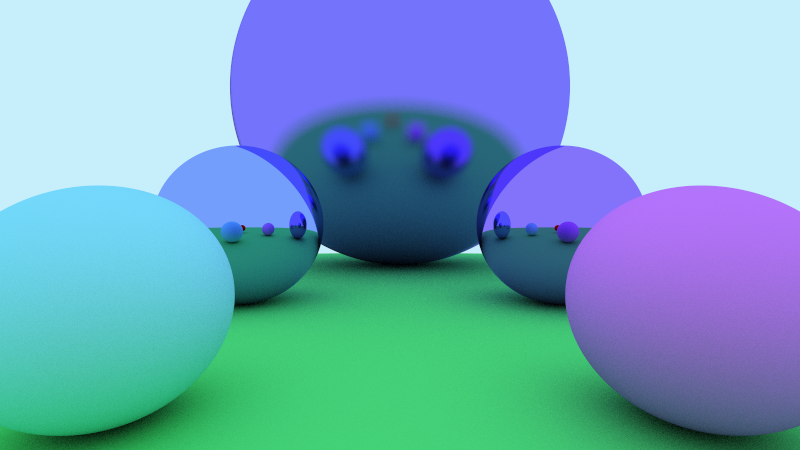
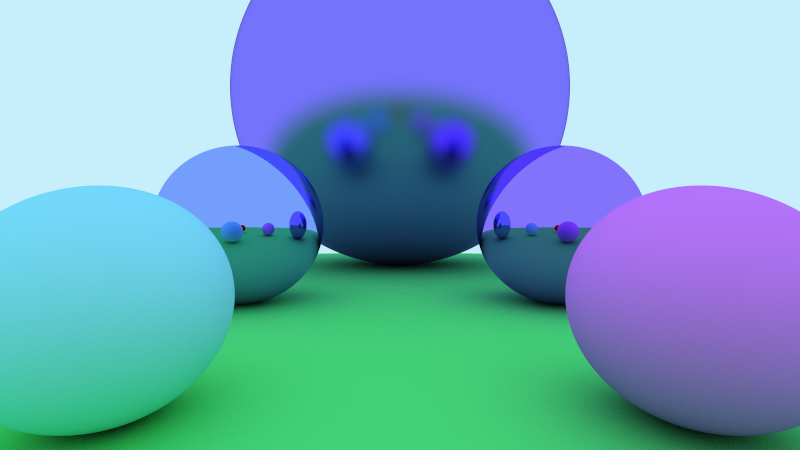
a06SmallChanges

Changed region(s): [[0.3125, 0.1867, 0.6875, 0.4044], [0.5938, 0.4044, 0.625, 0.4667], [0.375, 0.4044, 0.4062, 0.4667]]

diff --git a/src/cgg/A04.java b/src/cgg/A04.java
@@ -7,7 +7,7 @@ import cgg.sampler.StratifiedSampler;
 import cgg.scene.LochKamera;
 import cgg.scene.shapes.Background;
 import cgg.scene.shapes.Group;
-import cgg.scene.shapes.KugelSurface;
+import cgg.scene.shapes.Kugel;
 import cgg.scene.shapes.Plane;
 import cgg.scene.shapes.Shape;
 import cgtools.Color;
@@ -27,9 +27,9 @@ public class A04 {
 		
 //--------------------------------------------------------------------------------------------------------------------------
 		Shape ground = new Plane(5, Point.point(0.0, -0.5, 0.0), Direction.direction(0, 1, 0), new PerfectDiffuseMaterial(Color.gray));
-		Shape globe1 = new KugelSurface(Point.point(-1.0, -0.25, -2.5), 0.7, new PerfectDiffuseMaterial(new Color(1, 0.1, 0.1)));
-		Shape globe2 = new KugelSurface(Point.point(0.0, -0.25, -2.5), 0.5, new PerfectDiffuseMaterial(new Color(0, 1, 0.4)));
-		Shape globe3 = new KugelSurface(Point.point(1.0, -0.25, -2.5), 0.7, new PerfectDiffuseMaterial(new Color(0, 0.5, 1)));
+		Shape globe1 = new Kugel(Point.point(-1.0, -0.25, -2.5), 0.7, new PerfectDiffuseMaterial(new Color(1, 0.1, 0.1)));
+		Shape globe2 = new Kugel(Point.point(0.0, -0.25, -2.5), 0.5, new PerfectDiffuseMaterial(new Color(0, 1, 0.4)));
+		Shape globe3 = new Kugel(Point.point(1.0, -0.25, -2.5), 0.7, new PerfectDiffuseMaterial(new Color(0, 0.5, 1)));
 		Background bg = new Background(new BackgroundMaterial(Color.black));
 		
 		Group gr = new Group(new Shape[] {ground, globe1, globe2, globe3, bg});
@@ -41,12 +41,12 @@ public class A04 {
 		System.out.println("Wrote image: " + filename);
 //--------------------------------------------------------------------------------------------------------------------------	
 		Shape groundND = new Plane(4, Point.point(0.0, -0.5, -2.5), Direction.direction(0, 1, 0), new PerfectDiffuseMaterial(Color.white));
-		Shape legs = new KugelSurface(Point.point(0.0, -0.5, -2.5), 0.4, new PerfectDiffuseMaterial(Color.white));
-		Shape body = new KugelSurface(Point.point(0.0, 0, -2.5), 0.25, new PerfectDiffuseMaterial(Color.white));
-		Shape head = new KugelSurface(Point.point(0.0, 0.4, -2.5), 0.2, new PerfectDiffuseMaterial(Color.white));
-		Shape leftEye = new KugelSurface(Point.point(-0.04, 0.175, -1), 0.01, new PerfectDiffuseMaterial(Color.black));
-		Shape rightEye = new KugelSurface(Point.point(0.04, 0.175, -1), 0.01, new PerfectDiffuseMaterial(Color.black));
-		Shape nose = new KugelSurface(Point.point(0.0, 0.15, -1), 0.01, new PerfectDiffuseMaterial(Color.red));
+		Shape legs = new Kugel(Point.point(0.0, -0.5, -2.5), 0.4, new PerfectDiffuseMaterial(Color.white));
+		Shape body = new Kugel(Point.point(0.0, 0, -2.5), 0.25, new PerfectDiffuseMaterial(Color.white));
+		Shape head = new Kugel(Point.point(0.0, 0.4, -2.5), 0.2, new PerfectDiffuseMaterial(Color.white));
+		Shape leftEye = new Kugel(Point.point(-0.04, 0.175, -1), 0.01, new PerfectDiffuseMaterial(Color.black));
+		Shape rightEye = new Kugel(Point.point(0.04, 0.175, -1), 0.01, new PerfectDiffuseMaterial(Color.black));
+		Shape nose = new Kugel(Point.point(0.0, 0.15, -1), 0.01, new PerfectDiffuseMaterial(Color.red));
 		Background bg1 = new Background(new BackgroundMaterial(new Color(0, 0, 0.2)));
 		
 		Group snowMan = new Group(new Shape[] {legs, body, head, nose, leftEye, rightEye});
@@ -82,7 +82,7 @@ public class A04 {
 			
 			y = Random.random()-0.5;
 			
-			tmp[i] = new KugelSurface(Point.point(x, y, z), 0.01, new PerfectDiffuseMaterial(Color.white));
+			tmp[i] = new Kugel(Point.point(x, y, z), 0.01, new PerfectDiffuseMaterial(Color.white));
 		}
 		
 		return tmp;

diff --git a/src/cgg/A06.java b/src/cgg/A06.java
@@ -9,7 +9,7 @@ import cgg.sampler.StratifiedSampler;
 import cgg.scene.LochKamera;
 import cgg.scene.shapes.Background;
 import cgg.scene.shapes.Group;
-import cgg.scene.shapes.KugelSurface;
+import cgg.scene.shapes.Kugel;
 import cgg.scene.shapes.Plane;
 import cgg.scene.shapes.Shape;
 import cgtools.Color;
@@ -28,35 +28,35 @@ public class A06 {
 		
 		Shape ground = new Plane(7, Point.point(0.0, -0.5, 0.0), Direction.direction(0, 1, 0), new PerfectDiffuseMaterial(new Color(0.1, 0.8, 0.2)));
 		
-		Shape globe1 = new KugelSurface(Point.point(-0.75, -0.2, -1), 0.3, new PerfectDiffuseMaterial(new Color(0.3, 0.8, 1)));
-		Shape globe2 = new KugelSurface(Point.point(-1, 0, -2.5), 0.5, new Metall(new Color(0.3, 0.4, 1), 0));
+		Shape globe1 = new Kugel(Point.point(-0.75, -0.2, -1), 0.3, new PerfectDiffuseMaterial(new Color(0.3, 0.8, 1)));
+		Shape globe2 = new Kugel(Point.point(-1, 0, -2.5), 0.5, new Metall(new Color(0.3, 0.4, 1), 0));
 		
-		Shape globe3 = new KugelSurface(Point.point(0, 1.5, -5), 2, new Metall(new Color(0.3, 0.2, 1), 0.2));
+		Shape globe3 = new Kugel(Point.point(0, 1.5, -5), 2, new Metall(new Color(0.3, 0.2, 1), 0.2));
 		
-		Shape globe4 = new KugelSurface(Point.point(1.0, 0, -2.5), 0.5, new Metall(new Color(0.4, 0.2, 1), 0));
-		Shape globe5 = new KugelSurface(Point.point(0.75, -0.2, -1), 0.3, new PerfectDiffuseMaterial(new Color(0.8, 0.2, 1)));
+		Shape globe4 = new Kugel(Point.point(1.0, 0, -2.5), 0.5, new Metall(new Color(0.4, 0.2, 1), 0));
+		Shape globe5 = new Kugel(Point.point(0.75, -0.2, -1), 0.3, new PerfectDiffuseMaterial(new Color(0.8, 0.2, 1)));
 		
-		Shape globe6 = new KugelSurface(Point.point(0, -0.2, 0.3), 0.2, new PerfectDiffuseMaterial(Color.red));
+		Shape globe6 = new Kugel(Point.point(0, -0.2, 0.3), 0.2, new PerfectDiffuseMaterial(Color.red));
 		
 		Background bg = new Background(new BackgroundMaterial(new Color(0.6, 0.9, 1)));
 		
 		Group gr = new Group(new Shape[] {ground, globe1, globe2, globe3, globe4, globe5, globe6, bg});
-		Raytracer raytracer = new Raytracer(camera, gr, 5);
+		Raytracer raytracer = new Raytracer(camera, gr, 7);
 		
-		image.sample(new StratifiedSampler(raytracer, 300));
+		image.sample(new StratifiedSampler(raytracer, 1000));
 		
 		image.write(filename);
 		System.out.println("Wrote image: " + filename);
 		
-		Shape globe7 = new KugelSurface(Point.point(-0.5, 0, -1.5), 0.5, new PerfectDiffuseMaterial(new Color(0.3, 0.4, 1)));
-		Shape globe8 = new KugelSurface(Point.point(0.5, 0, -1.5), 0.5, new PerfectDiffuseMaterial(new Color(0.4, 0.2, 1)));
+		Shape globe7 = new Kugel(Point.point(-0.5, 0, -1.5), 0.5, new PerfectDiffuseMaterial(new Color(0.3, 0.4, 1)));
+		Shape globe8 = new Kugel(Point.point(0.5, 0, -1.5), 0.5, new PerfectDiffuseMaterial(new Color(0.4, 0.2, 1)));
 		
-		Shape globe9 = new KugelSurface(Point.point(0, 0.05, -0.5), 0.1, new Glass(Color.white));
+		Shape globe9 = new Kugel(Point.point(0, 0.05, -0.5), 0.1, new Glass(Color.white));
 		
 		Group gr1 = new Group(new Shape[] {ground, globe6, globe7, globe8, globe9, bg});
-		Raytracer raytracer1 = new Raytracer(camera, gr1, 5);
+		Raytracer raytracer1 = new Raytracer(camera, gr1, 7);
 		
-		image.sample(new StratifiedSampler(raytracer1, 300));
+		image.sample(new StratifiedSampler(raytracer1, 1000));
 		
 		image.write(filename1);
 		System.out.println("Wrote image: " + filename1);

diff --git a/src/cgg/A05.java b/src/cgg/A05.java
@@ -7,7 +7,7 @@ import cgg.sampler.StratifiedSampler;
 import cgg.scene.LochKamera;
 import cgg.scene.shapes.Background;
 import cgg.scene.shapes.Group;
-import cgg.scene.shapes.KugelSurface;
+import cgg.scene.shapes.Kugel;
 import cgg.scene.shapes.Plane;
 import cgg.scene.shapes.Shape;
 import cgtools.Color;
@@ -25,13 +25,13 @@ public class A05 {
 		
 		Shape ground = new Plane(7, Point.point(0.0, -0.5, 0.0), Direction.direction(0, 1, 0), new PerfectDiffuseMaterial(new Color(0.1, 0.8, 0.2)));
 		
-		Shape globe1 = new KugelSurface(Point.point(-1.25, -0.2, -1.75), 0.3, new PerfectDiffuseMaterial(new Color(0.3, 0.8, 1)));
-		Shape globe2 = new KugelSurface(Point.point(-1, 0, -2.5), 0.5, new PerfectDiffuseMaterial(new Color(0.3, 0.4, 1)));
+		Shape globe1 = new Kugel(Point.point(-1.25, -0.2, -1.75), 0.3, new PerfectDiffuseMaterial(new Color(0.3, 0.8, 1)));
+		Shape globe2 = new Kugel(Point.point(-1, 0, -2.5), 0.5, new PerfectDiffuseMaterial(new Color(0.3, 0.4, 1)));
 		
-		Shape globe5 = new KugelSurface(Point.point(0, 1.5, -5), 2, new PerfectDiffuseMaterial(new Color(0.3, 0.2, 1)));
+		Shape globe5 = new Kugel(Point.point(0, 1.5, -5), 2, new PerfectDiffuseMaterial(new Color(0.3, 0.2, 1)));
 		
-		Shape globe3 = new KugelSurface(Point.point(1.0, 0, -2.5), 0.5, new PerfectDiffuseMaterial(new Color(0.4, 0.2, 1)));
-		Shape globe4 = new KugelSurface(Point.point(1.25, -0.2, -1.75), 0.3, new PerfectDiffuseMaterial(new Color(0.8, 0.2, 1)));
+		Shape globe3 = new Kugel(Point.point(1.0, 0, -2.5), 0.5, new PerfectDiffuseMaterial(new Color(0.4, 0.2, 1)));
+		Shape globe4 = new Kugel(Point.point(1.25, -0.2, -1.75), 0.3, new PerfectDiffuseMaterial(new Color(0.8, 0.2, 1)));
 		
 		Background bg = new Background(new BackgroundMaterial(new Color(0.6, 0.9, 1)));
 		

diff --git a/src/cgg/material/Metall.java b/src/cgg/material/Metall.java
@@ -24,16 +24,30 @@ public class Metall implements Material{
 	public Ray calculateNewRay(Hit hit, Ray ray) {
 		
 		Double b = Direction.dotProduct(Direction.negate(ray.d), hit.n);
-		
 		Direction bVEC = Direction.multiply(b, hit.n);
 		Direction r = Direction.add(Direction.multiply(2, bVEC), ray.d);
-		Direction randomDir = Direction.direction(Random.random(), Random.random(), Random.random());
-			
+		
+		if(rauigkeit == 0) {
+			return new Ray(hit.x, Direction.normalize(r), Util.EPSILON, Double.POSITIVE_INFINITY); 
+		}
+		
+		double x = Random.random() * 2 - 1;
+		double y = Random.random() * 2 - 1;
+		double z = Random.random() * 2 - 1;
+
+		while ((x * x) + (y * y) + (z * z) >= 1) {
+			x = Random.random() * 2 - 1;
+			y = Random.random() * 2 - 1;
+			z = Random.random() * 2 - 1;
+		}
+		
+		Direction randomDir = Direction.direction(x, y, z);			
 		Direction rs = Direction.add(r, Direction.multiply(rauigkeit, randomDir));
-//		while(Direction.dotProduct(rs, hit.n) <= 0) {
-//			randomDir = Direction.direction(Random.random(), Random.random(), Random.random());
-//			rs = Direction.add(r, Direction.multiply(rauigkeit, randomDir));
-//		}
+		
+		while(Direction.dotProduct(rs, hit.n) <= 0) {
+			return null;
+		}
+
 		return new Ray(hit.x, Direction.normalize(rs), Util.EPSILON, Double.POSITIVE_INFINITY);
 	}
 

diff --git a/src/cgg/A03.java b/src/cgg/A03.java
@@ -4,7 +4,7 @@ import cgg.material.PerfectDiffuseMaterial;
 import cgg.sampler.Raytracer;
 import cgg.sampler.StratifiedSampler;
 import cgg.scene.LochKamera;
-import cgg.scene.shapes.KugelSurface;
+import cgg.scene.shapes.Kugel;
 import cgtools.Color;
 import cgtools.Point;
 
@@ -17,7 +17,7 @@ public class A03 {
 		
 		Image image = new Image(width, height);
 		LochKamera cam = new LochKamera(width, height, Math.PI/2, Point.zero, 0, Double.POSITIVE_INFINITY);
-		KugelSurface kugel = new KugelSurface(Point.point(0, 0, -3), 1, new PerfectDiffuseMaterial(new Color(0.1, 1, 0.3)));
+		Kugel kugel = new Kugel(Point.point(0, 0, -3), 1, new PerfectDiffuseMaterial(new Color(0.1, 1, 0.3)));
 		
 		image.sample(new StratifiedSampler(new Raytracer(cam, kugel, 5), 100));
 

diff --git a/src/cgg/sampler/Raytracer.java b/src/cgg/sampler/Raytracer.java
@@ -33,9 +33,10 @@ public class Raytracer implements Sampler{
 		Hit hit = shape.intersect(ray);
 		
 		Material m = hit.material;
+		Ray r = m.calculateNewRay(hit, ray);
 		
-		if(m.isScattered()) {
-			Color c = Color.multiply(m.getAlbedo(), calculateRadiance(m.calculateNewRay(hit, ray), depth-1));
+		if(r != null) {
+			Color c = Color.multiply(m.getAlbedo(), calculateRadiance(r, depth-1));
 			return Color.add(m.getEmission(), c);
 		}else {
 			return m.getEmission();

diff --git a/src/cgg/scene/shapes/Kugel.java b/src/cgg/scene/shapes/Kugel.java
@@ -7,12 +7,12 @@ import cgtools.Direction;
 import cgtools.Point;
 import cgtools.Vector;
 
-public class KugelSurface implements Shape {
+public class Kugel implements Shape {
 	protected Point c;
 	protected double radius;
 	protected Material material;
 
-	public KugelSurface(Point c, double radius, Material material) {
+	public Kugel(Point c, double radius, Material material) {
 		this.c = c;
 		this.radius = radius;
 		this.material = material;
